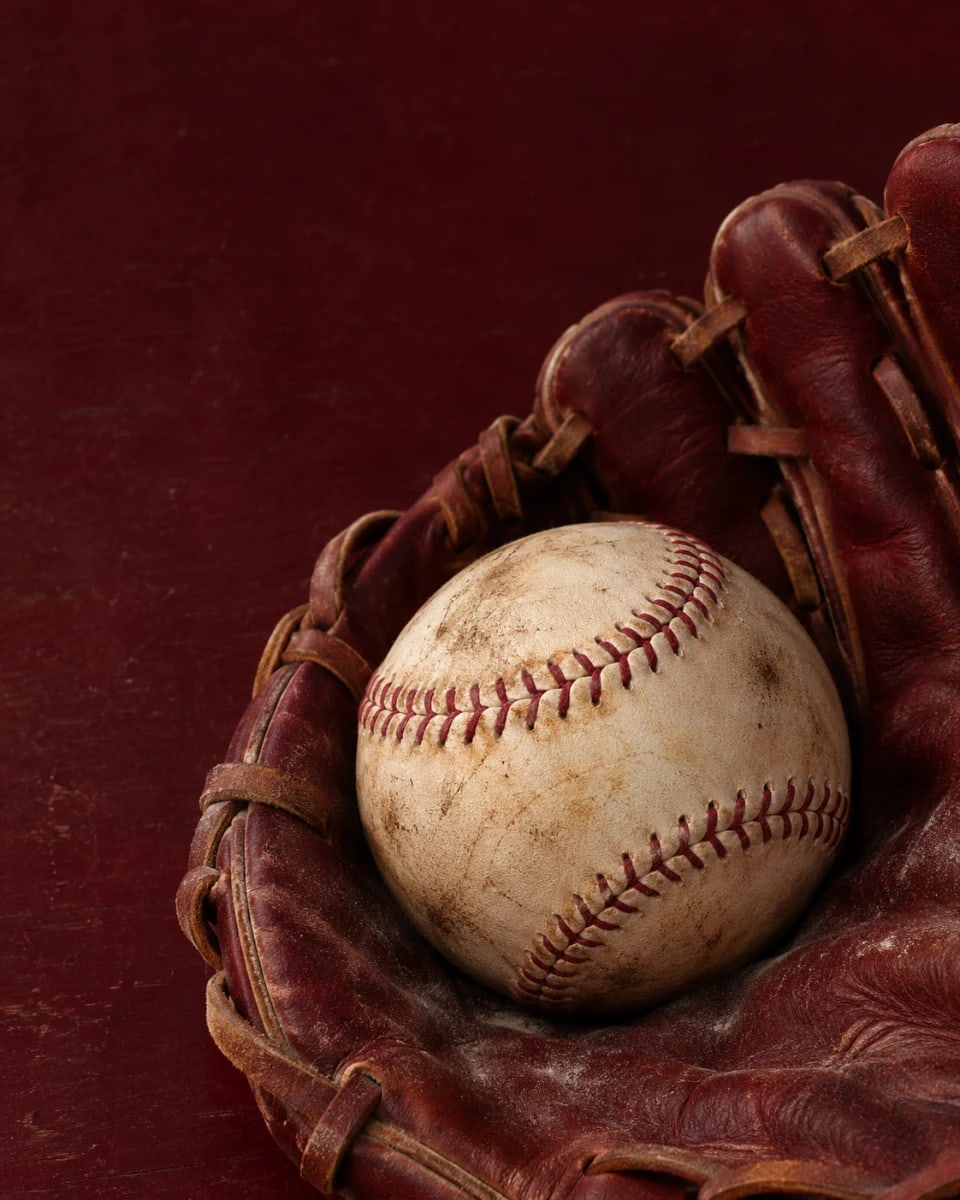
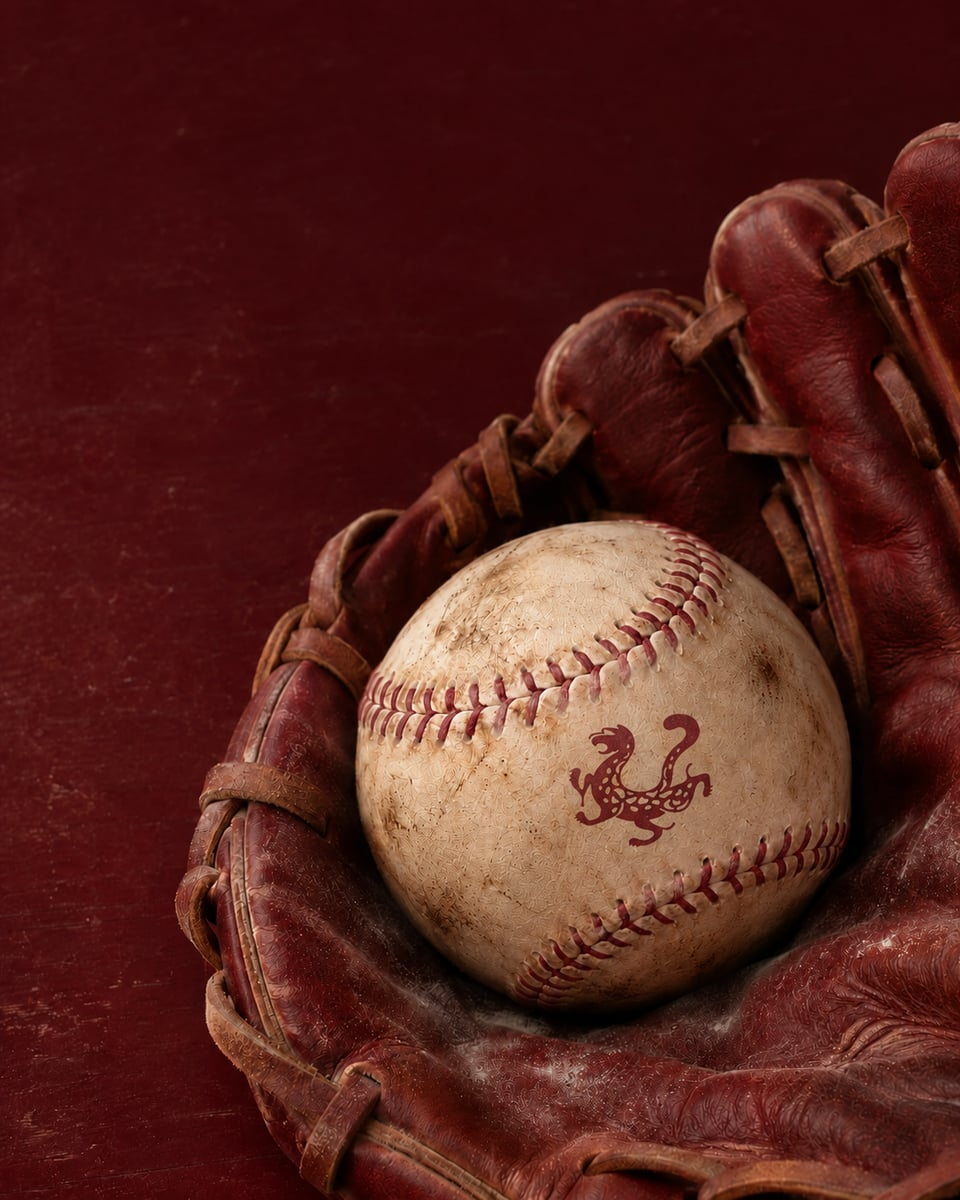
发布 1.2.1：更新小程序首页豹子封面

diff --git a/更新日志.md b/更新日志.md
@@ -1,5 +1,9 @@
 # WBC 训练助手更新日志
 
+## 1.2.1
+
+- **小程序首页封面**　棒球两道缝线之间印上了俱乐部的酒红色豹子标志，做旧的印迹透出球面皮纹。
+
 ## 1.2.0 Build 2
 
 - **训练计划**　俱乐部管理员在小程序或 Web 后台的「排课管理」新增、编辑团课班次或周期模板时，可选填训练计划。家长登录后在「课表 → 团课」查看，教练在「授课日程」查看本人课程的计划。
